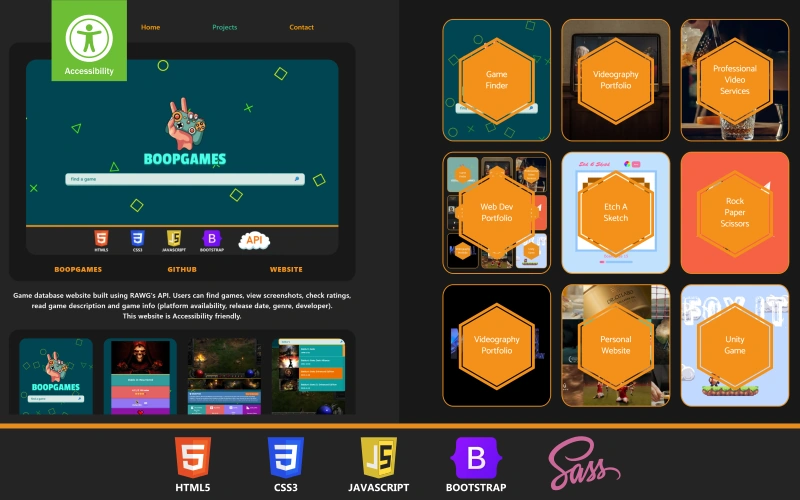
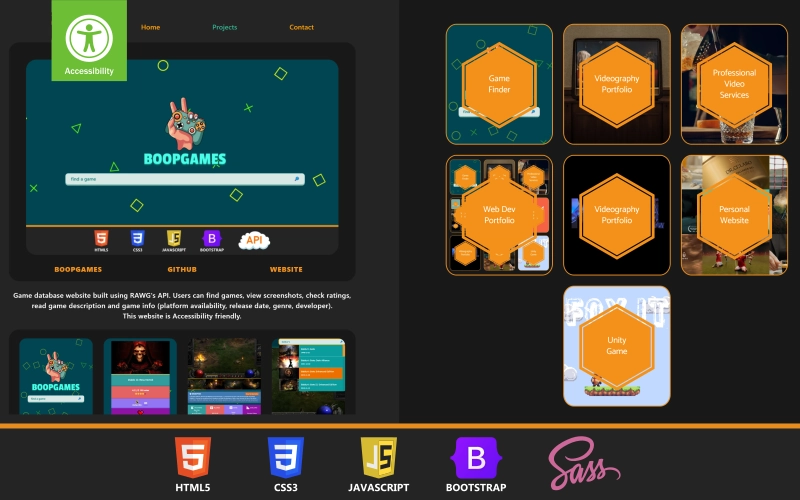
Projects update

Changed region(s): [[0.5312, 0.03, 1.0, 0.84], [0.5625, 0.81, 0.6875, 0.84]]

diff --git a/app.js b/app.js
@@ -180,66 +180,6 @@ function projectDevPortfolio() {
     technologyUsed.innerHTML = "Technologies used: HTML5, CSS3, JavaScript, Bootstrap, Sass";
 }
 
-function projectEtchASketch() {
-    bootstrap.Tab.getInstance(triggerElProjects).show();
-    mainThumbnail.focus();
-    mainThumbnail.src = "./projects/etchasketch/main.webp";
-    projectTitle.innerHTML = "ETCH A SKETCH";
-    githubLink.href = "https://github.com/msTheBear/Etch-A-Sketch";
-    website.innerHTML = "WEBSITE";
-    website.href = "https://msthebear.github.io/Etch-A-Sketch/";
-    description.innerHTML = "Classic drawing toy transformed into a virtual version. Users can change the board size and pick colors.";
-    mainThumbnailLink.href = "https://msthebear.github.io/Etch-A-Sketch/";
-    mainThumbnail.alt = "Etch A Sketch main thumbnail";
-    screenshotThumbnail1.src = "./projects/etchasketch/etchasketch_th.webp";
-    screenshotThumbnail1.alt = "Etch A Sketch thumbnail 1";
-    screenshotThumbnailModal1.src = "./projects/etchasketch/etchasketch_th.webp";
-    screenshotThumbnailModal1.alt = "Etch A Sketch thumbnail 1";
-    screenshotThumbnail2.src = "./projects/etchasketch/screenshot_1.webp";
-    screenshotThumbnail2.alt = "Etch A Sketch thumbnail 2";
-    screenshotThumbnailModal2.src = "./projects/etchasketch/screenshot_1.webp";
-    screenshotThumbnailModal2.alt = "Etch A Sketch thumbnail 2";
-    screenshotThumbnail3.src = "./projects/etchasketch/screenshot_2.webp";
-    screenshotThumbnail3.alt = "Etch A Sketch thumbnail 3";
-    screenshotThumbnailModal3.src = "./projects/etchasketch/screenshot_2.webp";
-    screenshotThumbnailModal3.alt = "Etch A Sketch thumbnail 3";
-    screenshotThumbnail4.src = "./projects/etchasketch/screenshot_3.webp";
-    screenshotThumbnail4.alt = "Etch A Sketch thumbnail 4";
-    screenshotThumbnailModal4.src = "./projects/etchasketch/screenshot_3.webp";
-    screenshotThumbnailModal4.alt = "Etch A Sketch thumbnail 4";
-    technologyUsed.innerHTML = "Technologies used: HTML5, CSS3, JavaScript";
-}
-
-function projectRockPaper() {
-    bootstrap.Tab.getInstance(triggerElProjects).show();
-    mainThumbnail.focus();
-    mainThumbnail.src = "./projects/rockpaperscissors/main.webp";
-    projectTitle.innerHTML = "ROCK PAPER SCISSORS";
-    githubLink.href = "https://github.com/msTheBear/Rock-Paper-Scissors";
-    website.innerHTML = "WEBSITE";
-    website.href = "https://msthebear.github.io/Rock-Paper-Scissors/";
-    description.innerHTML = "Classic hand game usually played between two people. Visitors can now take their chances and play with a computer.";
-    mainThumbnailLink.href = "https://msthebear.github.io/Rock-Paper-Scissors/";
-    mainThumbnail.alt = "Rock Paper Scissors main thumbnail";
-    screenshotThumbnail1.src = "./projects/rockpaperscissors/rockpaperscissors_th.webp";
-    screenshotThumbnail1.alt = "Rock Paper Scissors thumbnail 1";
-    screenshotThumbnailModal1.src = "./projects/rockpaperscissors/rockpaperscissors_th.webp";
-    screenshotThumbnailModal1.alt = "Rock Paper Scissors thumbnail 1";
-    screenshotThumbnail2.src = "./projects/rockpaperscissors/screenshot_1.webp";
-    screenshotThumbnail2.alt = "Rock Paper Scissors thumbnail 2";
-    screenshotThumbnailModal2.src = "./projects/rockpaperscissors/screenshot_1.webp";
-    screenshotThumbnailModal2.alt = "Rock Paper Scissors thumbnail 2";
-    screenshotThumbnail3.src = "./projects/rockpaperscissors/screenshot_2.webp";
-    screenshotThumbnail3.alt = "Rock Paper Scissors thumbnail 3";
-    screenshotThumbnailModal3.src = "./projects/rockpaperscissors/screenshot_2.webp";
-    screenshotThumbnailModal3.alt = "Rock Paper Scissors thumbnail 3";
-    screenshotThumbnail4.src = "./projects/rockpaperscissors/screenshot_3.webp";
-    screenshotThumbnail4.alt = "Rock Paper Scissors thumbnail 4";
-    screenshotThumbnailModal4.src = "./projects/rockpaperscissors/screenshot_3.webp";
-    screenshotThumbnailModal4.alt = "Rock Paper Scissors thumbnail 4";
-    technologyUsed.innerHTML = "Technologies used: HTML5, CSS3, JavaScript";
-}
-
 function projectPortfolioOld() {
     bootstrap.Tab.getInstance(triggerElProjects).show();
     mainThumbnail.focus();
@@ -308,7 +248,7 @@ function projectFoxIt() {
     githubLink.href = "";
     website.innerHTML = "WEBSITE";
     website.href = "https://play.unity.com/mg/other/build-fox-it";
-    description.innerHTML = 'Simple game created in Unity, based on a very popular game called "Flappy Bird".';
+    description.innerHTML = `I'm interested in making games and this is my passion project created in Unity, based on a very popular game called "Flappy Bird". I'm currently learning Godot engine.`;
     mainThumbnailLink.href = "https://play.unity.com/mg/other/build-fox-it";
     mainThumbnail.alt = "Fox It main thumbnail";
     screenshotThumbnail1.src = "./projects/foxit/foxit_th.webp";

diff --git a/index.html b/index.html
@@ -490,39 +490,6 @@
                             <div class="col-4">
                                 <div class="projectContainer">
 
-                                    <button class="btn btn-primary imgButton" id="button5"
-                                        onclick="projectEtchASketch()">
-                                        <img src="./projects/etchasketch/etchasketch_th.webp"
-                                            class="img-fluid column2ProjectThumbnail" alt="Project thumbnail"
-                                            width="600" height="676" loading="lazy">
-                                        <figure class="centered">
-                                            <img src="./logos/polygon.svg" role="img" width="422.857" height="487.407"
-                                                aria-hidden="true" class="img-fluid" alt="Polygon shape" loading="lazy">
-                                            <div class="overlayText">Etch A Sketch</div>
-                                        </figure>
-                                    </button>
-
-                                </div>
-                            </div>
-                            <div class="col-4">
-                                <div class="projectContainer">
-
-                                    <button class="btn btn-primary imgButton" id="button6" onclick="projectRockPaper()">
-                                        <img src="./projects/rockpaperscissors/rockpaperscissors_th.webp"
-                                            class="img-fluid column2ProjectThumbnail" alt="Project thumbnail"
-                                            width="600" height="676" loading="lazy">
-                                        <figure class="centered">
-                                            <img src="./logos/polygon.svg" role="img" width="422.857" height="487.407"
-                                                aria-hidden="true" class="img-fluid" alt="Polygon shape" loading="lazy">
-                                            <div class="overlayText">Rock Paper Scissors</div>
-                                        </figure>
-                                    </button>
-
-                                </div>
-                            </div>
-                            <div class="col-4">
-                                <div class="projectContainer">
-
                                     <button class="btn btn-primary imgButton" id="button7"
                                         onclick="projectPortfolioOld()">
                                         <img src="./projects/michalportfolio/michalportfolio_th.webp"
@@ -554,6 +521,13 @@
                                 </div>
                             </div>
                             <div class="col-4">
+
+                                <div class="projectContainer">
+
+                                </div>
+
+                            </div>
+                            <div class="col-4">
                                 <div class="projectContainer">
 
                                     <button class="btn btn-primary imgButton" id="button9" onclick="projectFoxIt()">
@@ -568,6 +542,13 @@
                                     </button>
 
                                 </div>
+                            </div>
+                            <div class="col-4">
+
+                                <div class="projectContainer">
+
+                                </div>
+
                             </div>
                         </div>
                     </section>
